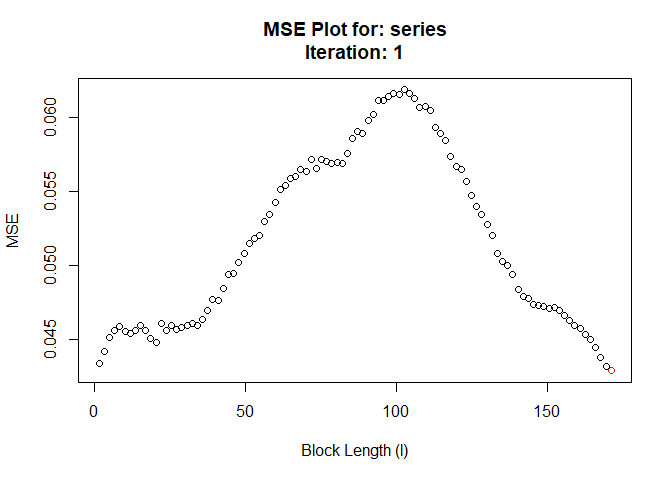
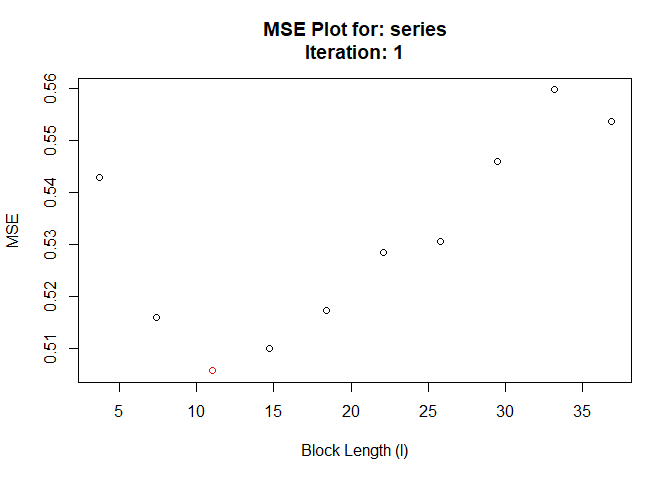
Update readme

diff --git a/README.md b/README.md
@@ -7,9 +7,10 @@
 
 [![Build
 Status](https://travis-ci.org/Alec-Stashevsky/hhjboot.svg?branch=main)](https://travis-ci.org/Alec-Stashevsky/hhjboot)
-
 [![Lifecycle:
 maturing](https://img.shields.io/badge/lifecycle-maturing-blue.svg)](https://www.tidyverse.org/lifecycle/#maturing)
+[![GPL
+license](https://img.shields.io/badge/License-GPL-blue.svg)](http://perso.crans.org/besson/LICENSE.html)
 <!-- badges: end -->
 
 The goal of hhjboot is to simplify and automate the process of selecting
@@ -47,36 +48,34 @@ This is a basic example which shows you how to solve a common problem:
 
 ``` r
 library(hhjboot)
+set.seed(32)
 
 # Simulate AR(1) time series
 series <- stats::arima.sim(model = list(order = c(1, 0, 0), ar = 0.5),
-                                     n = 500, innov = rnorm(500))
-# Default
-hhjboot(series, sub.block.size = 100, grid.step = 10)
+                           n = 500, rand.gen = rnorm)
+
+# Find optimal block length using overlapping subsamples of width 10
+hhjboot(series, sub.block.size = 10)
 #>  Pilot block length is: 3
 #> Registered S3 method overwritten by 'quantmod':
 #>   method            from
 #>   as.zoo.data.frame zoo
 #> Performing minimization may take some time
-#> Calculating MSE for each level in subsample: 100 function evaluations required.
-#>  Chosen block length: 171  After iteration: 1
+#> Calculating MSE for each level in subsample: 10 function evaluations required.
+#>  Chosen block length: 11  After iteration: 1
 ```
 
 <img src="man/figures/README-example-1.png" width="100%" />
 
-    #>  Chosen block length: 2  After iteration: 2
+    #>  Converged at block length (l): 11
 
 <img src="man/figures/README-example-2.png" width="100%" />
 
-    #>  Converged at block length (l): 2
-
-<img src="man/figures/README-example-3.png" width="100%" />
-
     #> $`Optimal Block Length`
-    #> [1] 2
+    #> [1] 11
     #> 
     #> $`Subsample block size (m)`
-    #> [1] 100
+    #> [1] 10
     #> 
     #> $Call
-    #> hhjboot(series = series, sub.block.size = 100, grid.step = 10)
+    #> hhjboot(series = series, sub.block.size = 10)
